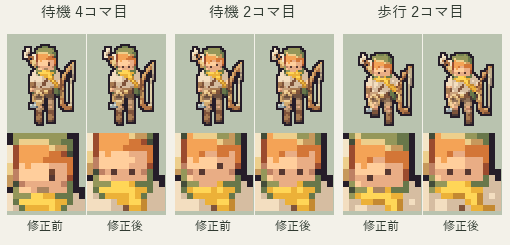
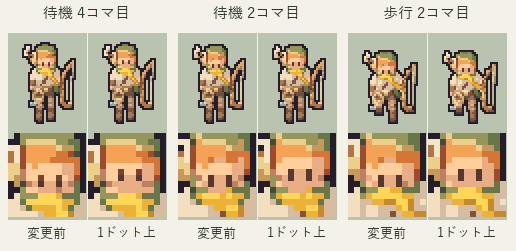
Align Rico and Sena's two-pixel eyes in front-facing animations

diff --git a/characters/rico/build_model.py b/characters/rico/build_model.py
@@ -66,9 +66,12 @@ def build(config):
         paint(rod((s*2.65, .75, 22.1), (s*3.46, .90, 19.9), .80, .33), "copper", "head")
     paint(oval((0, 2.62, 20.15), (.47, .47, .55)), "skin", "head")
     for sign, iris in ((-1, "right eye"), (1, "left eye")):
-        paint(oval((sign*1.18, 2.50, 20.85), (.60, .58, .65), 2.5), "skin", "head")
-        # Seat the iris at the surface so each pupil survives the frontal pixel grid.
-        paint(oval((sign, 2.45, 20.30), (.38, .40, .90), 2.5), iris, "head")
+        paint(oval((sign*.75, 3.00, 21.65), (.76, .58, .85), 2.5), "skin", "head")
+        # Round the outer corner so the side of the iris recedes into the cheek.
+        cheek = oval((sign*1.75, 2.80, 21.25), (.50, .90, 1.10), 2.5)
+        paint(cheek & (v.material == 0), "skin", "head")
+        # Keep each iris one pixel wide and two pixels tall from the front.
+        paint(oval((sign, 3.05, 21.20), (.38, .60, .70), 2.5), iris, "head")
     # The hood has an open, asymmetric front arch and a folded point at the nape.
     hood = oval((0, -.52, 22.02), (3.65, 3.30, 3.22), 2.25)
     opening = (y > .22) & (z < 23.08 + .47*y - .19*x)

diff --git a/characters/sena/build_model.py b/characters/sena/build_model.py
@@ -56,7 +56,10 @@ def build(config):
         paint(rod(a0, mid, 1.36, 1.18) | rod(mid, end, 1.18, .43),
               "silver shade" if dx in (-1.35, 1.3) else "silver", "head")
     paint(oval((0, .36, 24.37), (2.91, 2.66, 3.16), 2.15), "skin", "head")
-    v.eyes((1.13, 2.75, 24.55), (.90, 2.59, 24.53), (.59, .82, .81))
+    # Seat both irises on the same forward surface beneath the sloping fringe.
+    for side in (-1, 1):
+        paint(oval((side*1.30, 3.00, 24.70), (.60, .45, .85), 2.5), "skin", "head")
+        paint(oval((side*1.10, 2.85, 24.45), (.50, .46, .93), 2.5), "eyes", "head")
     paint(oval((0, 2.83, 23.88), (.52, .42, .63)), "skin", "head")
     fringe = oval((0, 0, 26.0), (3.17, 2.92, 2.47))
     paint(fringe & ((y < 1.12) | (z > 25.15-.52*x)), "silver", "head")

diff --git a/research/adventurers/README.md b/research/adventurers/README.md
@@ -107,8 +107,16 @@ $id = 'gard'
 
 ### リコの正面の目
 
-![リコの正面。左から待機4コマ目、待機2コマ目、歩行2コマ目。各組の左が修正前、右が修正後](rico-face-comparison.png)
+![リコの正面。待機4コマ目、待機2コマ目、歩行2コマ目を同じ範囲で拡大。各組の左が調整前、右が両目を1ドット上げた後](rico-face-comparison.png)
 
 修正前（`bf8134e`）の待機4コマ目は、瞳の2画素が画面右側に縦に並んでいた。待機2コマ目は左右に1画素ずつ出たが、高さが1画素ずれていた。顔に埋まった小さな瞳を斜め上から投影すると、顔の上下動によって拾われる側と高さが変わっていた。口を描いた薄い茶色の面もコマによって現れたり消えたりしていた。
 
-瞳を立体の顔表面に置き直し、口元は肌色の陰影にまとめた。修正後の正面は、待機4コマと歩行6コマのすべてで瞳が同じ行の x=30 と x=33 に1画素ずつ出る（64×64セルの左端を0とする）。左右の瞳に同色の別々の材質IDを割り当て、待機・歩行の各コマで片側が消えた場合に検出できるようにした。
+`d270ab9` で瞳を顔の表面に置き直し、口元を肌色の陰影にまとめた。その後、左右の瞳を縦2ドットにした。上図ではその版を基準に、瞳と周囲の肌の立体を調整し、正面で両目が1ドット高く見えるようにした。
+
+正面の静止姿勢、待機4コマ、歩行6コマの各画像で、瞳の色は x=30 と x=33 の列に縦2画素ずつ現れる（64×64セルの左端が0）。両目の上端と下端がそろい、間には肌色が2画素残る。待機・歩行の品質検査では、左右それぞれの瞳の材質が正面の各コマで最低2画素見えることを確認する。
+
+### セナの正面の目
+
+![セナの待機2コマ目、歩行1コマ目、歩行2コマ目。各組の左が修正前、右が修正後](sena-face-comparison.png)
+
+修正前の待機2コマ目では、画面左の瞳が縦3画素、右が1画素だった。斜めの前髪の下で瞳が左右とも見えるよう、頭部モデルの瞳と周囲の肌の奥行きを調整した。正面の静止姿勢、待機4コマ、歩行6コマのPNGを調べ、すべてで x=30 と x=33 の列に瞳が縦2画素ずつ並ぶことを確認した。両目の上端の行は待機で 25・24・23・24、歩行で 26・27・26・26・27・26（セル上端が0）。隊列プレビューの原寸で正面の待機・歩行を再生し、8方向のGIFも確認した。
